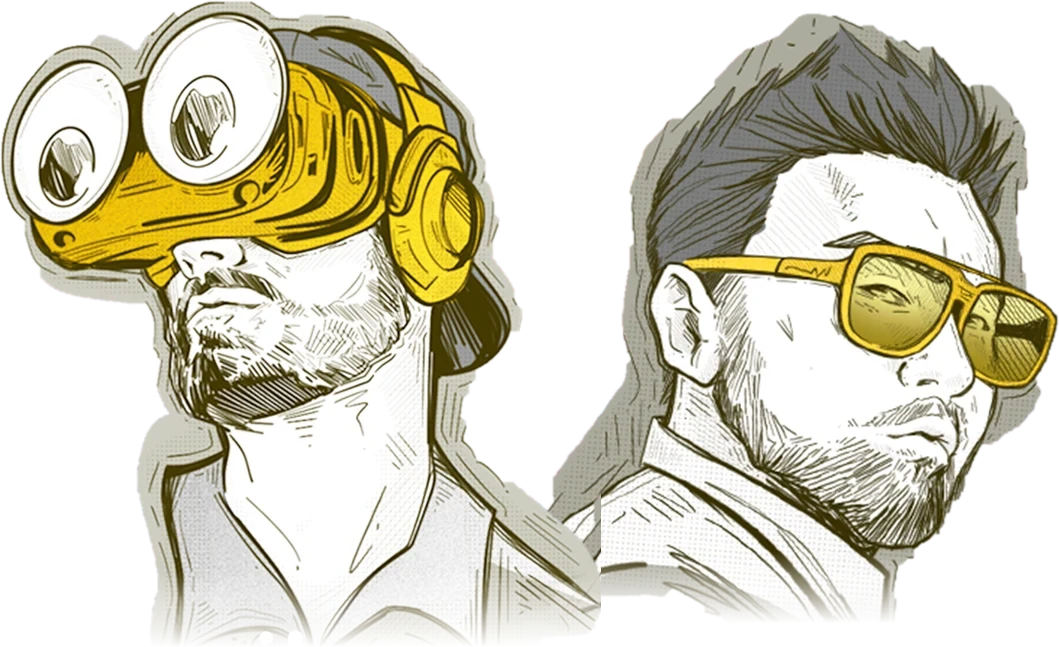
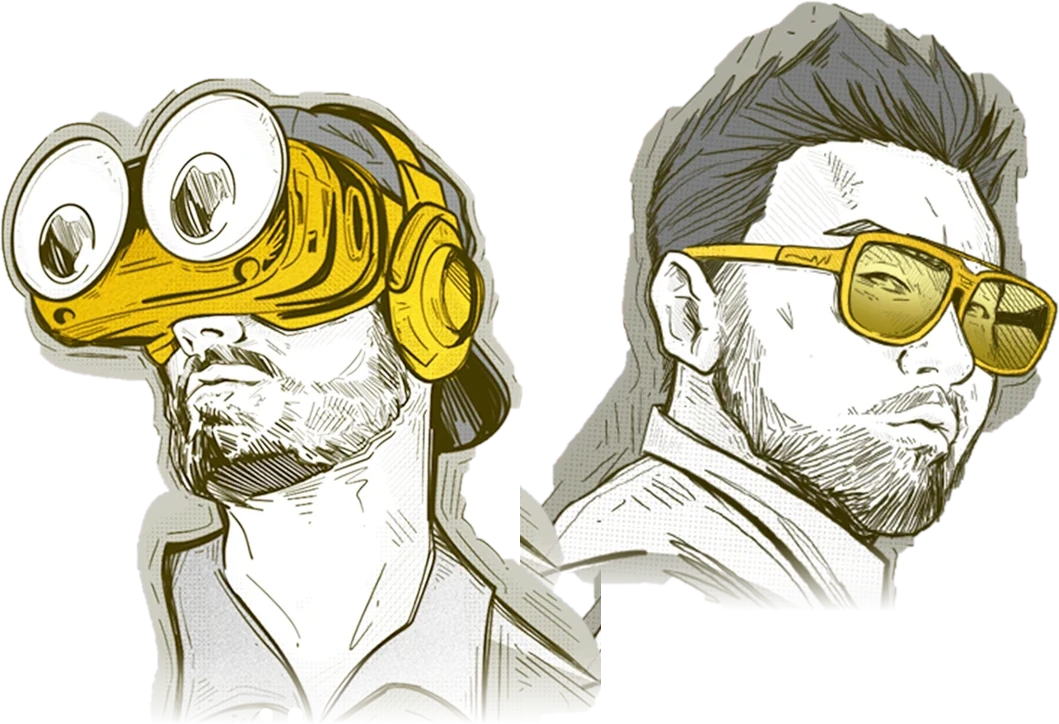
Raise gonZ relative to basiL

diff --git a/app/styles/theme.css b/app/styles/theme.css
@@ -4352,3 +4352,7 @@ h2 {
 }
 .art-ribbon { padding-bottom: calc(var(--space-8) + 2.5rem) !important; }
 @media (min-width: 768px) { .dispatch__art--hosts { margin-top: -4.75rem; } .dispatch__inner { padding-bottom: 0; } .dispatch { margin-top: 0; } }
+@media (max-width: 767px) {
+  .dispatch__art--hosts { margin-top: -3rem; margin-bottom: 0.5rem; }
+  .dispatch__art--hosts img { width: 115%; max-width: none; margin-left: -5%; }
+}
